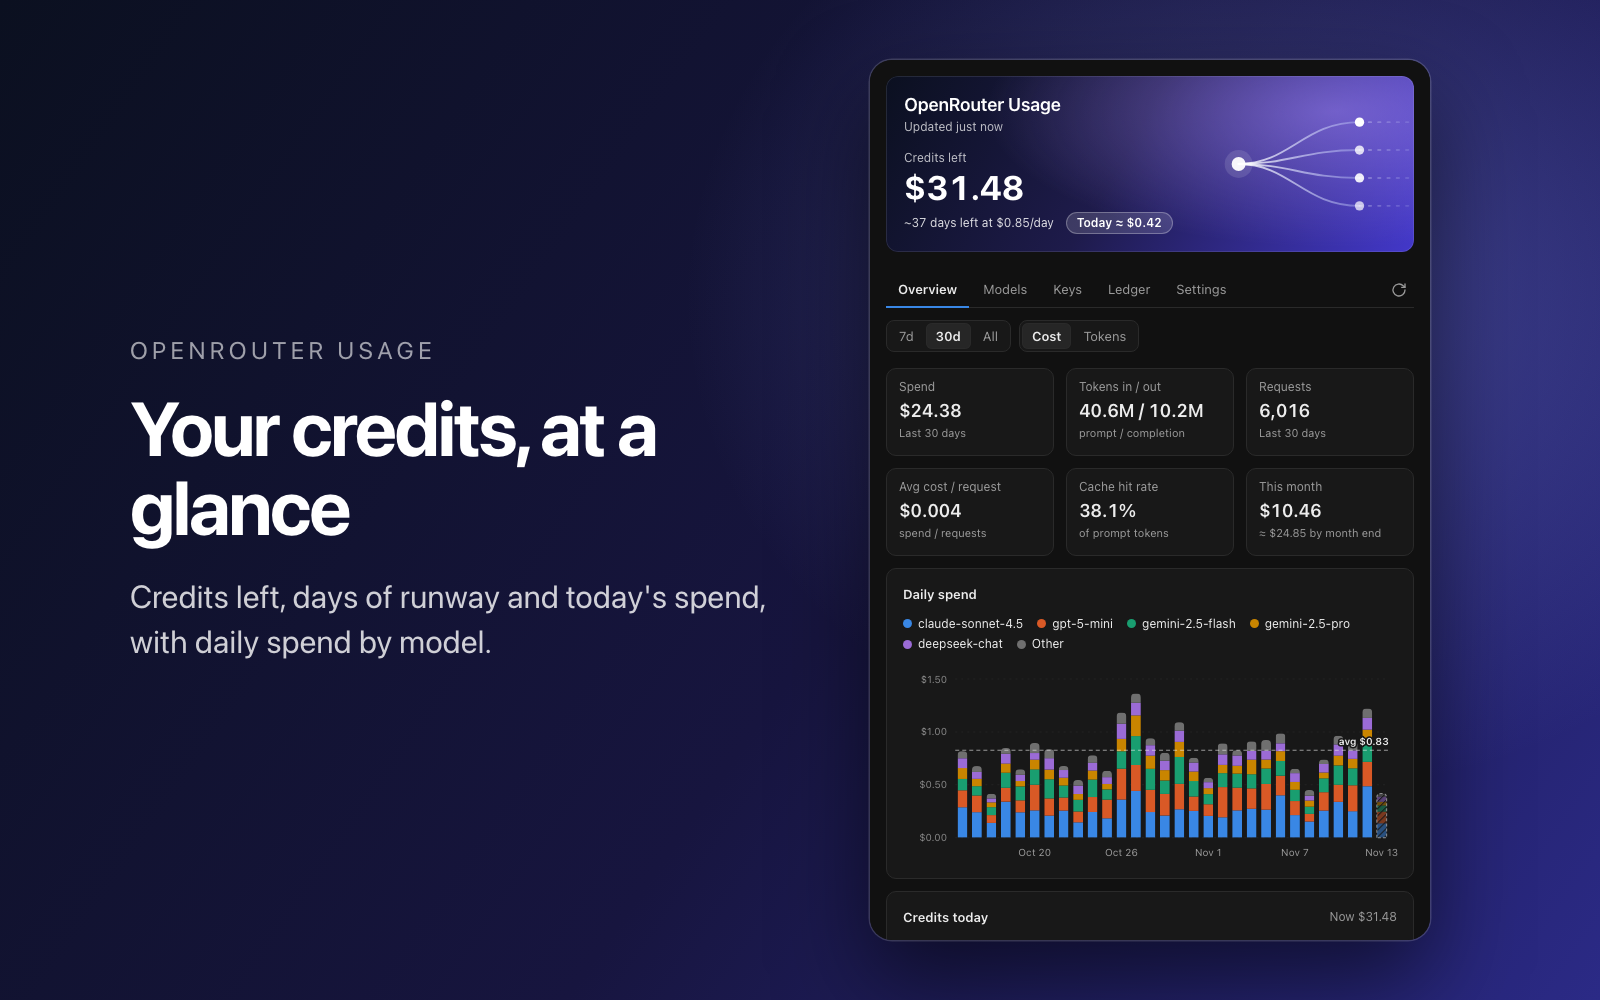
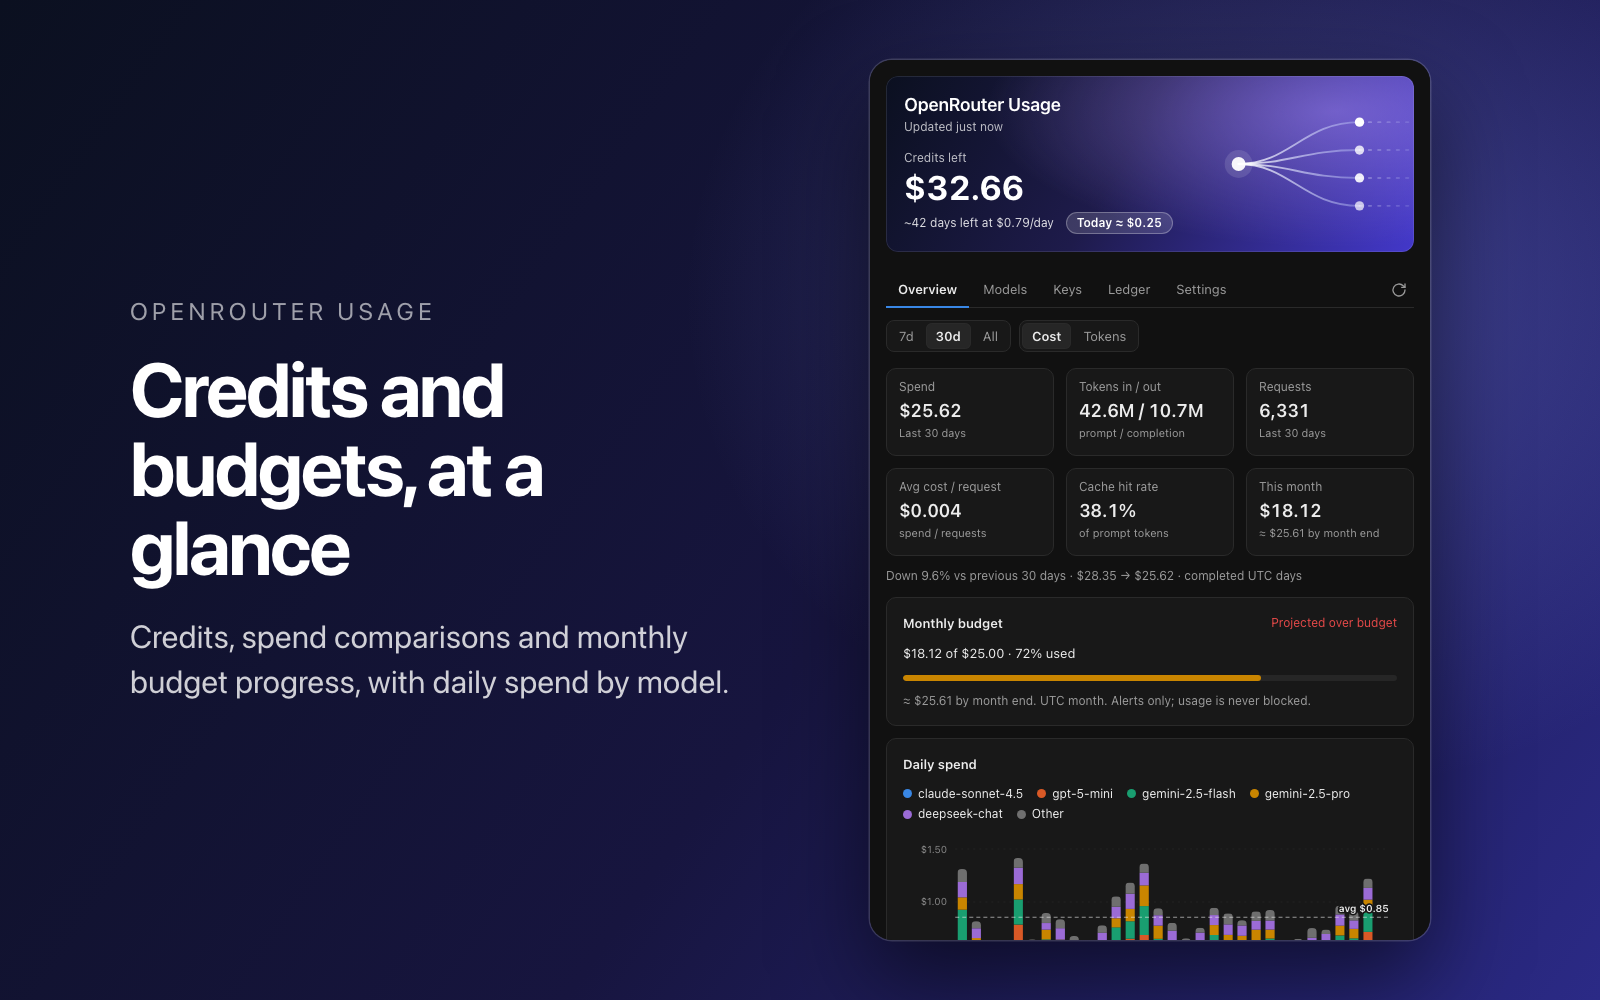
docs: prepare the 1.1.0 release notes and listing screenshots

diff --git a/README.md b/README.md
@@ -2,7 +2,7 @@
 
 ![OpenRouter Usage](images/cover.png)
 
-A sidebar dashboard for [Orca](https://onorca.dev) that shows what you spend on [OpenRouter](https://openrouter.ai): credits left, spend, tokens, models and API keys.
+A sidebar dashboard for [Orca](https://orca.dev) that shows what you spend on [OpenRouter](https://openrouter.ai): credits left, spend, tokens, models and API keys.
 
 Requires Orca 1.4.248 or later and an OpenRouter **management key** (OpenRouter Settings, Management Keys).
 
@@ -10,6 +10,10 @@ Requires Orca 1.4.248 or later and an OpenRouter **management key** (OpenRouter 
 
 - A banner with your **credits left**, the projected days left at your recent burn rate, and today's spend (approximate).
 - A **This month** tile with spend so far and where it lands by month end at your recent rate.
+- **Spend comparisons** for the last 7 or 30 completed UTC days against the preceding equal period, with per-model changes.
+- An optional **monthly budget**, with progress and a warning when actual or projected spend exceeds it. Set it in Settings; 0 turns it off. Alerts never block usage.
+- **Key health** badges for expiring/expired keys and near/exhausted limits, with daily, weekly or monthly reset labels. Meters use the remaining API allowance.
+- **CSV exports** of daily totals, models or API keys. Pick the data next to Export CSV at the bottom of a report and choose where to save it.
 - Five tabs: **Overview** (tiles, daily spend or tokens by model, today's burn), **Models** (ranked, with a details drawer per model plus the token mix), **Keys** (spend per key for 7d, 30d or all time, with limits and last use) **Ledger** (newest-first daily list and an activity heatmap) and **Settings**.
 - Range (7d, 30d, All) and Cost or Tokens switches, with refresh on the right.
 - A status bar item (`$25.20 left · $0.10 today`) and notifications when credits run low or a daily budget is passed.
@@ -31,7 +35,11 @@ Open the panel and paste your management key; it is verified with OpenRouter bef
 All numbers come from OpenRouter's `/credits`, `/activity` and `/keys` endpoints; the plugin only ever sends `GET` requests.
 
 - `/activity` covers the last 30 completed UTC days and excludes today. **Today** is computed from per-key totals, so it is approximate. Longer ranges build up from the day you install.
-- Per-key breakdowns of spend are not available because `/activity` rows carry no key.
+- Per-key spend is fetched separately with `/activity?api_key_hash=…`. Until that fetch succeeds, an unknown amount shows as a dash and exports as a blank cell.
+- Comparisons need at least 14 days of history for 7d and 60 days for 30d; All has no comparison. Coverage is conservatively inferred from the earliest stored activity, so accounts with long idle periods may wait longer. Today is excluded from comparisons.
+- BYOK follows the setting for spend and budgets. Credit runway always uses OpenRouter credit spend, excluding external BYOK inference costs.
+- CSVs use the selected range and BYOK setting and always export USD spend, even in Tokens mode. Daily exports include approximate today; model exports cover completed days; All-time key exports include lifetime usage. UTC bounds and export time are included. Key hashes and the management key are omitted; formula-like names are prefixed with an apostrophe for spreadsheet safety.
+- Monthly figures and today's totals are approximate: deleted keys or other workspaces may not be included in key totals. Budgets use UTC months and alert once while over budget, re-arming after recovery or a budget change.
 
 ## If something looks wrong
 

diff --git a/CHANGELOG.md b/CHANGELOG.md
@@ -1,5 +1,15 @@
 # Changelog
 
+## 1.1.0
+
+- Compare spend over 7 or 30 completed UTC days with the preceding equal period, including per-model changes. Comparisons wait for sufficient history and handle new spend without infinite percentages.
+- Export daily totals, models or API keys as CSV for the selected range and BYOK setting. Files include UTC bounds, label approximate today, leave unknown amounts blank and protect against spreadsheet formula injection.
+- Optional monthly budget: Overview progress and an alert when actual or projected spend exceeds the limit. Alerts respect notification settings, recover after spending falls below the limit and reset each UTC month. Usage is never blocked.
+- API key health: expiring/expired badges, near/exhausted-limit warnings and reset periods. Limit meters use the API's remaining allowance rather than lifetime usage.
+- BYOK totals now follow the setting for Today, monthly figures, lifetime key spend, the status bar and daily-budget alerts. BYOK-only activity is fetched too; external BYOK costs do not shorten OpenRouter credit runway.
+- Follow Orca's interface font, with fallbacks for older versions. Retains support for Orca 1.4.248 and the same permissions.
+- Make worker fixtures independent of the calendar; add regression checks for the new features, CSV save/cancel/error flows and font preferences.
+
 ## 1.0.0
 
 First stable release.

diff --git a/tasks/todo.md b/tasks/todo.md
@@ -1,10 +1,10 @@
 # Release 1.1.0
 
-- [ ] BYOK totals, credit runway, deterministic worker fixtures; regression tests pass.
-- [ ] Equal-period comparisons and model changes; history and zero-baseline cases verified.
-- [ ] Safe CSV exports and save/cancel/error panel flows verified.
-- [ ] Optional monthly budgets, progress and deduplicated alerts verified.
-- [ ] Key health badges and Orca fonts verified.
-- [ ] Review all changes; check light/dark/narrow layouts; regenerate listing screenshots.
-- [ ] Update documentation and version; unit, type, validation and panel checks pass.
+- [x] BYOK totals, credit runway, deterministic worker fixtures; regression tests pass.
+- [x] Equal-period comparisons and model changes; history and zero-baseline cases verified.
+- [x] Safe CSV exports and save/cancel/error panel flows verified.
+- [x] Optional monthly budgets, progress and deduplicated alerts verified.
+- [x] Key health badges and Orca fonts verified.
+- [x] Review all changes; check light/dark/narrow layouts; regenerate listing screenshots.
+- [x] Update documentation and version; unit, type, validation and panel checks pass.
 - [ ] Push main and v1.1.0; verify CI and public release; update the installed copy when available.

diff --git a/PLAN.md b/PLAN.md
@@ -2,7 +2,7 @@
 
 A sidebar dashboard for [Orca](https://onorca.dev) that shows what you spend on OpenRouter: credits left, spend, tokens, models, and API keys. It is modelled on the look of **Usage Insights** (`etherll.usage-insights`, installed locally) and borrows the "ledger" ideas of the iOS **AI Token Usage Tracker** app.
 
-Status: v1.0.0 published (v0.1.0 was the first release) (https://github.com/Lilykos/orca-openrouter-usage, tag `v0.1.0`, topic `orca-plugin`). Reviewed, with 81 unit tests plus panel render, click-through and injection checks (`scripts/check-panel.mjs`, run in CI). Install: `orca plugin install Lilykos/orca-openrouter-usage`.
+Status: v1.1.0 release (https://github.com/Lilykos/orca-openrouter-usage, tag `v1.1.0`, topic `orca-plugin`). Includes spend comparisons, CSV exports, monthly budgets and key health; see `tasks/plan.md` and `CHANGELOG.md`. Install: `orca plugin install Lilykos/orca-openrouter-usage`.
 
 ## 1. Decisions so far
 
